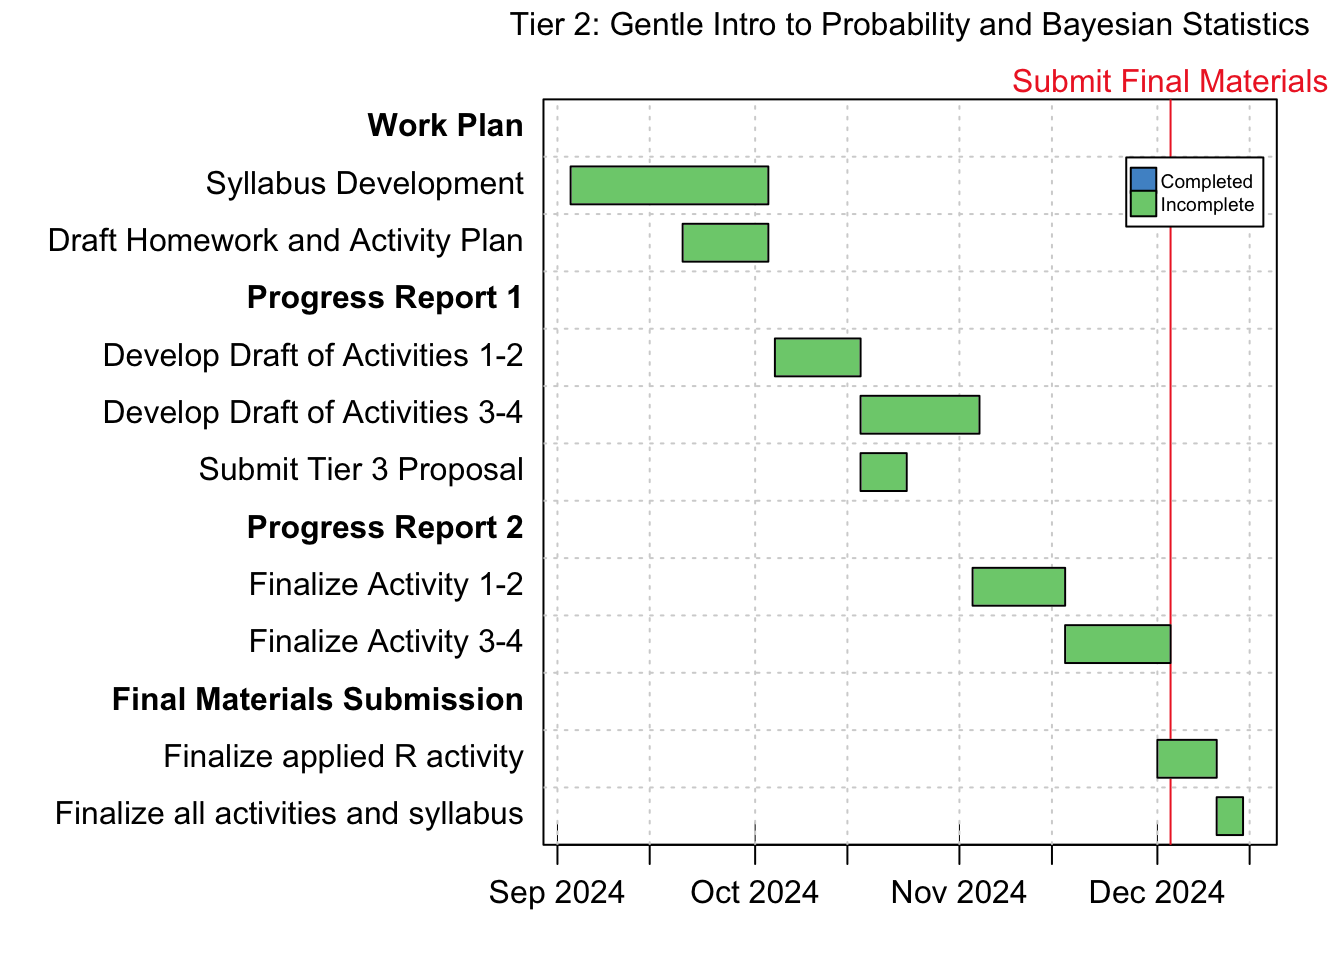
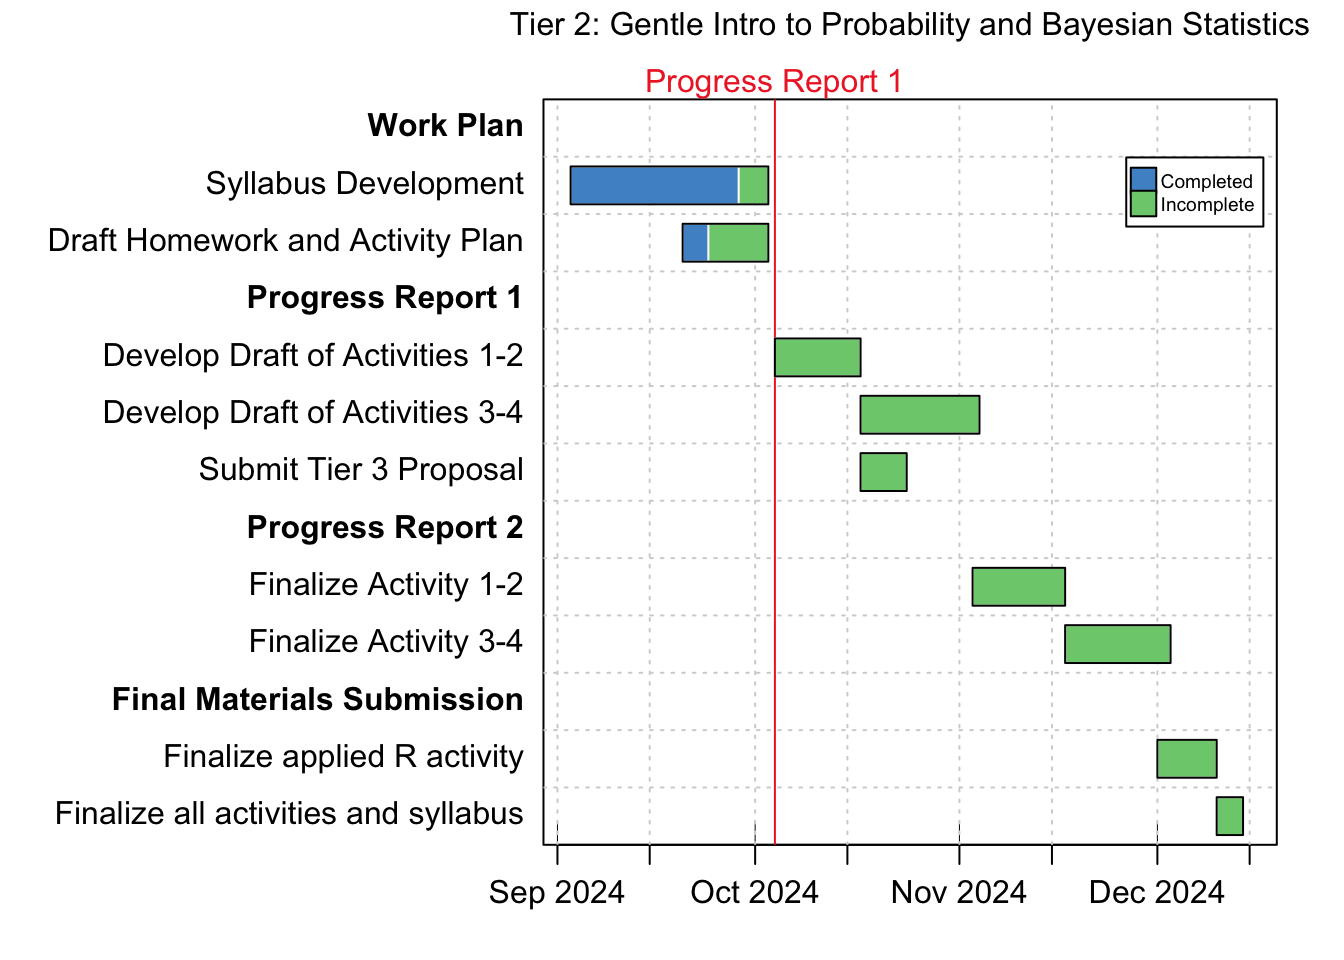
Add draft of project report 1

Changed region(s): [[0.4062, 0.1562, 0.5625, 0.2812], [0.75, 0.0625, 1.0, 0.0938], [0.4688, 0.0625, 0.6562, 0.0938]]

diff --git a/progress-reports/pr1.html b/progress-reports/pr1.html
@@ -48,7 +48,7 @@ ul.task-list li input[type="checkbox"] {
 <header id="title-block-header" class="quarto-title-block default">
 <div class="quarto-title">
 <h1 class="title">Progress Report Template</h1>
-<p class="subtitle lead">Activity: Short-term course</p>
+<p class="subtitle lead">Activity: A Gentle Introduction to Bayesian Statistics</p>
 </div>
 
 
@@ -74,6 +74,18 @@ ul.task-list li input[type="checkbox"] {
 
 <section id="overview" class="level2">
 <h2 class="anchored" data-anchor-id="overview">Overview</h2>
+<p>In the first part of the project we chose to start by drafting a needs analysis for students entering the course and reviewing and identifying existing resources for texts, slide decks, homeworks, and labs that might be suitable for our course.</p>
+<p>Specifically we have identified the following tasks:</p>
+<ul>
+<li>Determine software for course</li>
+<li>Determine books/resources that we’ll use (for us and/or students)</li>
+<li>Draft a needs analysis (what background are students coming into the course with)</li>
+<li>Outline a syllabus, including how the course will be graded and what components we’ll use to determine grades (e.g.&nbsp;assignments, exams, projects, etc.)</li>
+<li>Formally state course objectives and learning outcomes</li>
+<li>Draft a course schedule.</li>
+<li>Finalize topics to be covered.</li>
+<li>Draft Homework and Activity Plan</li>
+</ul>
 </section>
 <section id="updated-gantt-chart" class="level2">
 <h2 class="anchored" data-anchor-id="updated-gantt-chart">Updated Gantt Chart</h2>
@@ -90,9 +102,48 @@ ul.task-list li input[type="checkbox"] {
 </section>
 <section id="completed-materials" class="level2">
 <h2 class="anchored" data-anchor-id="completed-materials">Completed Materials</h2>
+<p>We have completed the following of our original tasks:</p>
+<ol type="1">
+<li>Determine software for course</li>
+</ol>
+<p>We will use R and RStudio. We will start the students off using web-r before transitioning to RStudio for assignments.</p>
+<ol start="2" type="1">
+<li>Determine books/resources that we’ll use (for us and/or students)</li>
+</ol>
+<p>We identified several existing resources to use for the course:</p>
+<ul>
+<li><a href="https://www.stat20.org">stat20.org by Andrew Bray and colleagues</a> notes in Week 5 and 6 introducing probability</li>
+<li><a href="https://bayesball.github.io/BOOK/probability-a-measurement-of-uncertainty.html">Probability and Bayesian Modelling by Jim Albert and Jingchen Hu</a></li>
+<li><a href="https://www.bayesrulesbook.com">Bayes Rules by Alicia A. Johnson, Miles Q. Ott, Mine Dogucu</a></li>
+</ul>
+<p>We will use these books and lessons to plan the lectures and readings for students. We will pay attention to differences in notation and weigh the pros and cons of using each resource.</p>
+<ol start="3" type="1">
+<li>Draft a needs analysis (what background are students coming into the course with)</li>
+</ol>
+<p>We have drafted an initial needs analysis. This will be included in the syllabus and policies folder.</p>
+<ol start="4" type="1">
+<li>Outline a syllabus, including how the course will be graded and what components we’ll use to determine grades (e.g.&nbsp;assignments, exams, projects, etc.)</li>
+</ol>
+<p>We have outlined a syllabus including a course description and a brainstorm of possible assessments. It might be that the semester-long 1/2 credit course and the 3.5 week “short-term” course may have different assessment strategies given the duration of the course.</p>
+<ol start="5" type="1">
+<li>Formally state course objectives and learning outcomes</li>
+</ol>
+<p>We have drafted a set of learning goals in the syllabus document. We plan to further refine these into course objectives and learning outcomes.</p>
+<p>We have not yet completed these items:</p>
+<ol start="6" type="1">
+<li>Draft a course schedule.</li>
+<li>Finalize topics to be covered.</li>
+<li>Draft Homework and Activity Plan</li>
+</ol>
 </section>
 <section id="next-steps" class="level2">
 <h2 class="anchored" data-anchor-id="next-steps">Next Steps</h2>
+<p>Before our check in with Mine we will draft the homework and activity plan which will identify the assignments and activities we will develop in the next stage of the project. So far we have identified a few case studies we are considering are:</p>
+<ul>
+<li>CNN vs.&nbsp;The Onion students decide on whether a headline was generated by CNN or the Onion.</li>
+<li>Problems at the Zoo: Tuberculosis in Elephants</li>
+<li>An analog example of the Metropolis-Hastings algorithm.</li>
+</ul>
 </section>
 <section id="meeting-times" class="level2">
 <h2 class="anchored" data-anchor-id="meeting-times">Meeting Times</h2>
@@ -113,54 +164,36 @@ ul.task-list li input[type="checkbox"] {
 </thead>
 <tbody>
 <tr class="odd">
-<td>2024-09-06</td>
-<td>3:00 - 4:00 pm ET</td>
-<td>Amy</td>
-<td></td>
-</tr>
-<tr class="even">
-<td>2024-09-18</td>
-<td>3:30 - 4:30 pm ET</td>
-<td>Monika</td>
-<td><a href="https://vassar.zoom.us/my/monika76five"><svg aria-hidden="true" role="img" viewbox="0 0 576 512" style="height:1em;width:1.12em;vertical-align:-0.125em;margin-left:auto;margin-right:auto;font-size:inherit;fill:currentColor;overflow:visible;position:relative;"><path d="M0 128C0 92.7 28.7 64 64 64H320c35.3 0 64 28.7 64 64V384c0 35.3-28.7 64-64 64H64c-35.3 0-64-28.7-64-64V128zM559.1 99.8c10.4 5.6 16.9 16.4 16.9 28.2V384c0 11.8-6.5 22.6-16.9 28.2s-23 5-32.9-1.6l-96-64L416 337.1V320 192 174.9l14.2-9.5 96-64c9.8-6.5 22.4-7.2 32.9-1.6z"></path></svg></a></td>
-</tr>
-<tr class="odd">
-<td>2024-09-26</td>
-<td>2:00 - 3:00 pm ET</td>
-<td>Mine</td>
-<td><a href="https://uci.zoom.us/j/91799232149"><svg aria-hidden="true" role="img" viewbox="0 0 576 512" style="height:1em;width:1.12em;vertical-align:-0.125em;margin-left:auto;margin-right:auto;font-size:inherit;fill:currentColor;overflow:visible;position:relative;"><path d="M0 128C0 92.7 28.7 64 64 64H320c35.3 0 64 28.7 64 64V384c0 35.3-28.7 64-64 64H64c-35.3 0-64-28.7-64-64V128zM559.1 99.8c10.4 5.6 16.9 16.4 16.9 28.2V384c0 11.8-6.5 22.6-16.9 28.2s-23 5-32.9-1.6l-96-64L416 337.1V320 192 174.9l14.2-9.5 96-64c9.8-6.5 22.4-7.2 32.9-1.6z"></path></svg></a></td>
-</tr>
-<tr class="even">
 <td>2024-10-07</td>
 <td>3:30 - 4:30 pm ET</td>
 <td>Monika</td>
 <td><a href="https://vassar.zoom.us/my/monika76five"><svg aria-hidden="true" role="img" viewbox="0 0 576 512" style="height:1em;width:1.12em;vertical-align:-0.125em;margin-left:auto;margin-right:auto;font-size:inherit;fill:currentColor;overflow:visible;position:relative;"><path d="M0 128C0 92.7 28.7 64 64 64H320c35.3 0 64 28.7 64 64V384c0 35.3-28.7 64-64 64H64c-35.3 0-64-28.7-64-64V128zM559.1 99.8c10.4 5.6 16.9 16.4 16.9 28.2V384c0 11.8-6.5 22.6-16.9 28.2s-23 5-32.9-1.6l-96-64L416 337.1V320 192 174.9l14.2-9.5 96-64c9.8-6.5 22.4-7.2 32.9-1.6z"></path></svg></a></td>
 </tr>
-<tr class="odd">
+<tr class="even">
 <td>2024-10-15</td>
 <td>3:00 - 4:00 pm ET</td>
 <td>Amy</td>
 <td></td>
 </tr>
-<tr class="even">
+<tr class="odd">
 <td>2024-10-2?</td>
 <td></td>
 <td>Mine</td>
 <td></td>
 </tr>
-<tr class="odd">
+<tr class="even">
 <td>2024-11-0?</td>
 <td></td>
 <td>Mine</td>
 <td></td>
 </tr>
-<tr class="even">
+<tr class="odd">
 <td>2024-11-12</td>
 <td>3:00 - 4:00 pm ET</td>
 <td>Amy</td>
 <td></td>
 </tr>
-<tr class="odd">
+<tr class="even">
 <td>2023-11-20</td>
 <td>3:30 - 4:30 pm ET</td>
 <td>Monika</td>
